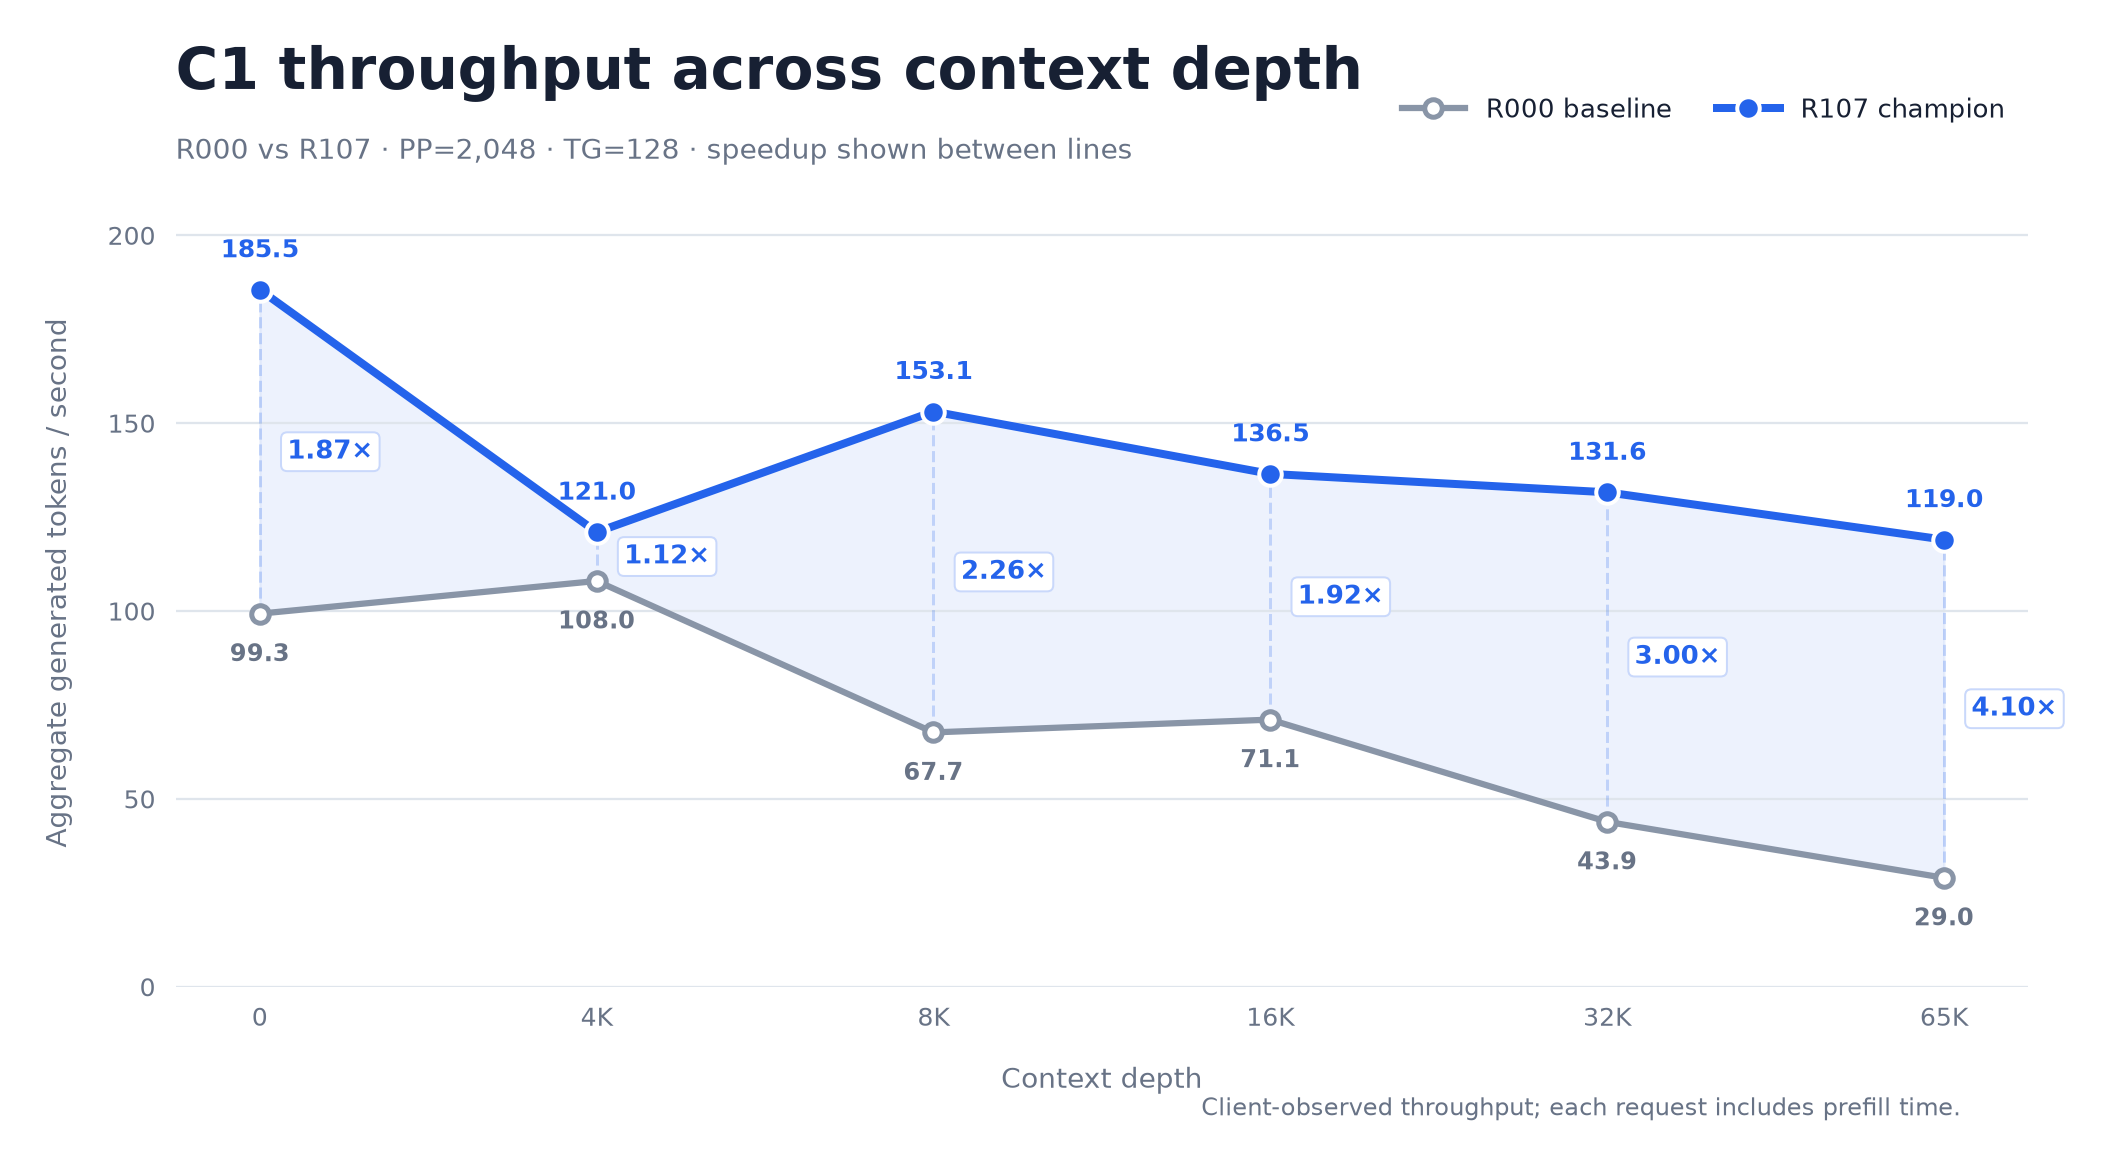
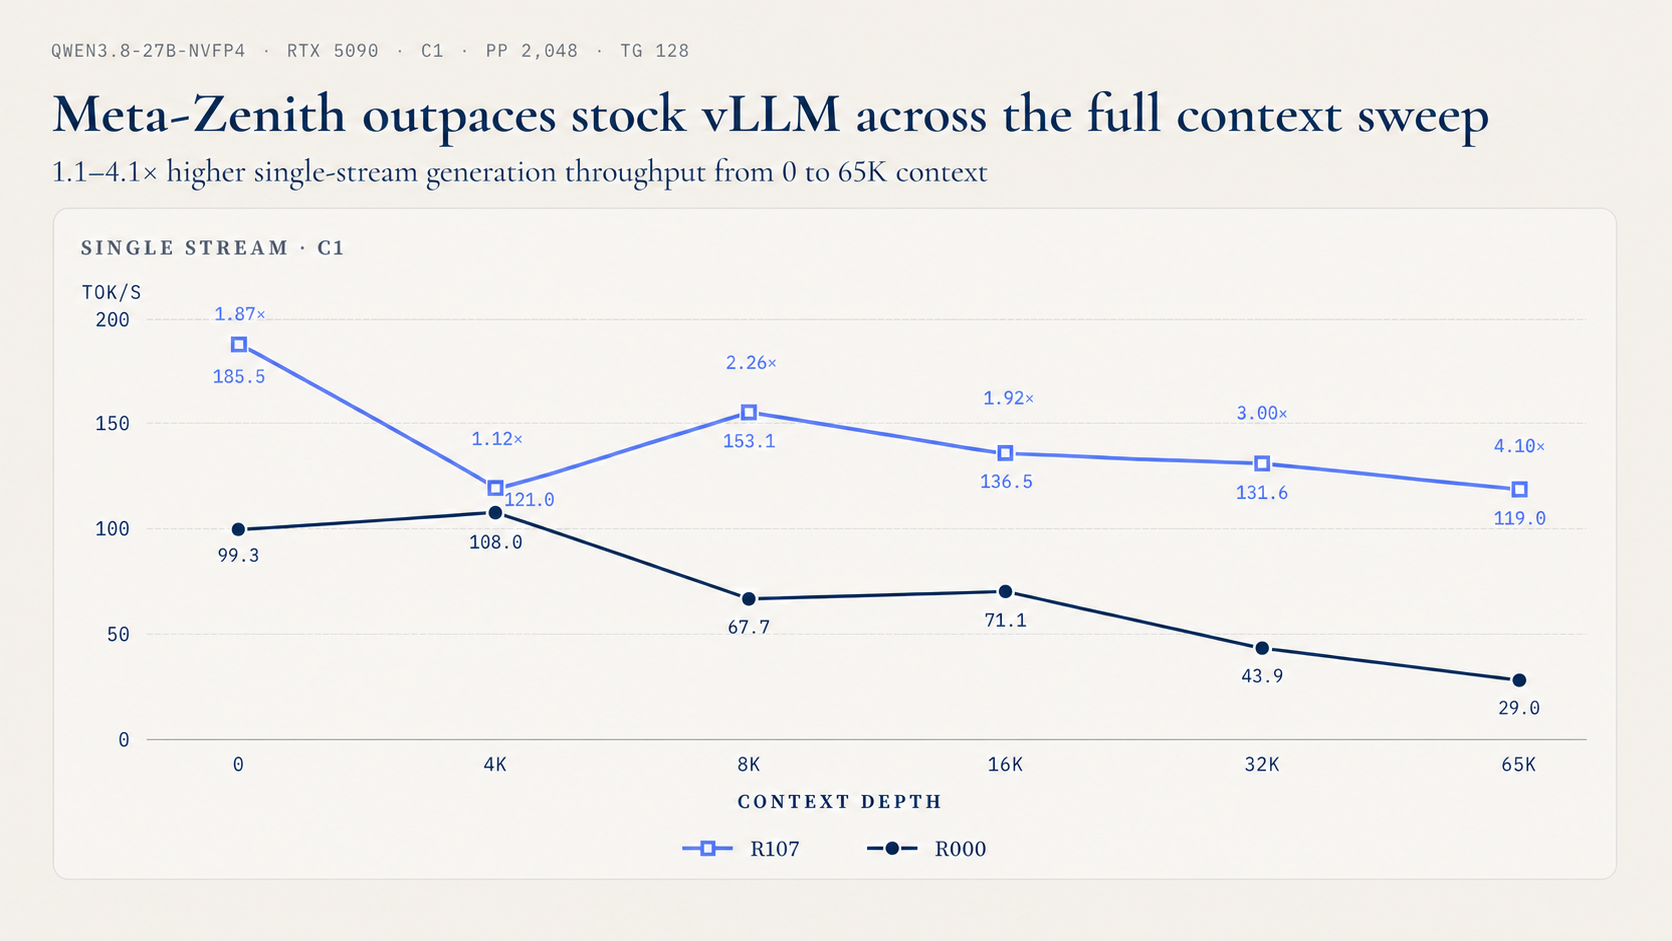
docs: refresh benchmark visuals

diff --git a/README.md b/README.md
@@ -1,3 +1,5 @@
+![Meta-Zenith Qwen3.8 inference benchmark](docs/assets/main.png)
+
 # Optimized Qwen3.8 NVFP4 Inference on RTX 5090
 
 This repository contains a specialized vLLM source tree for serving
